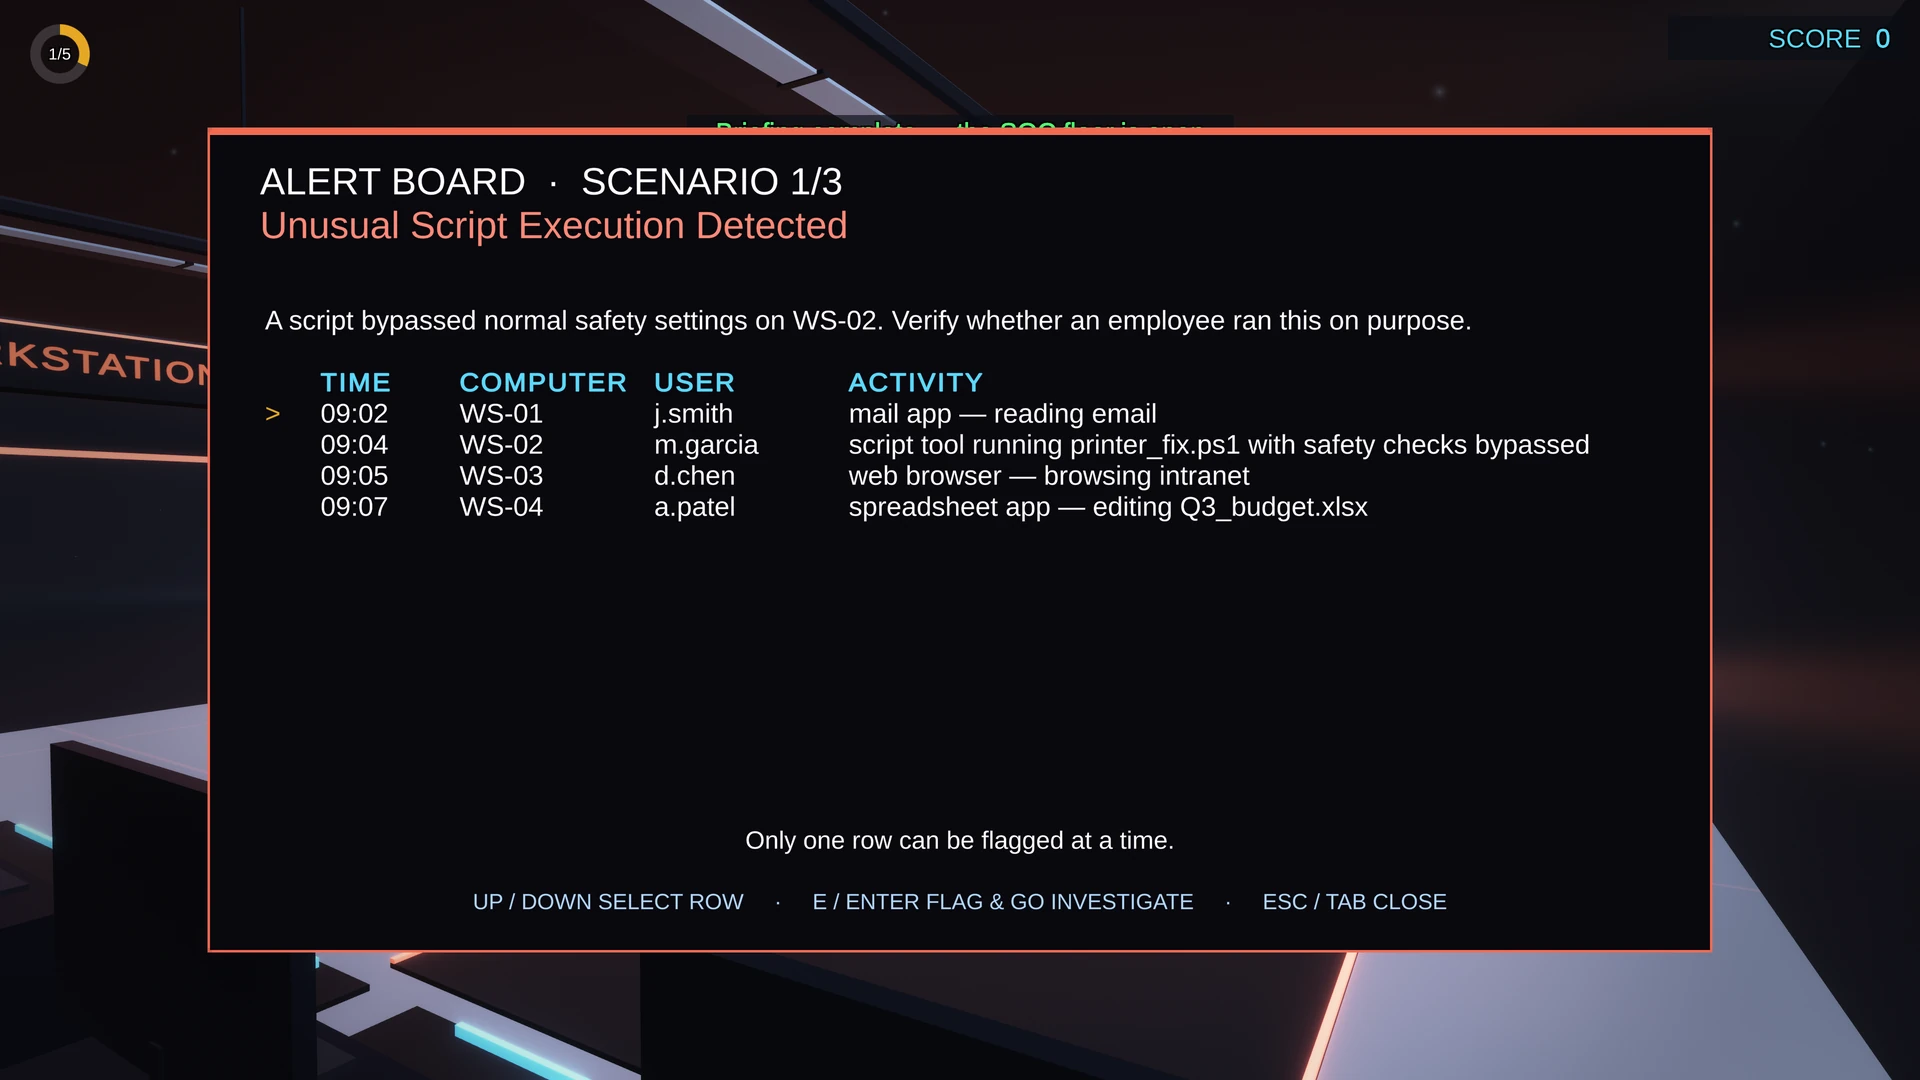
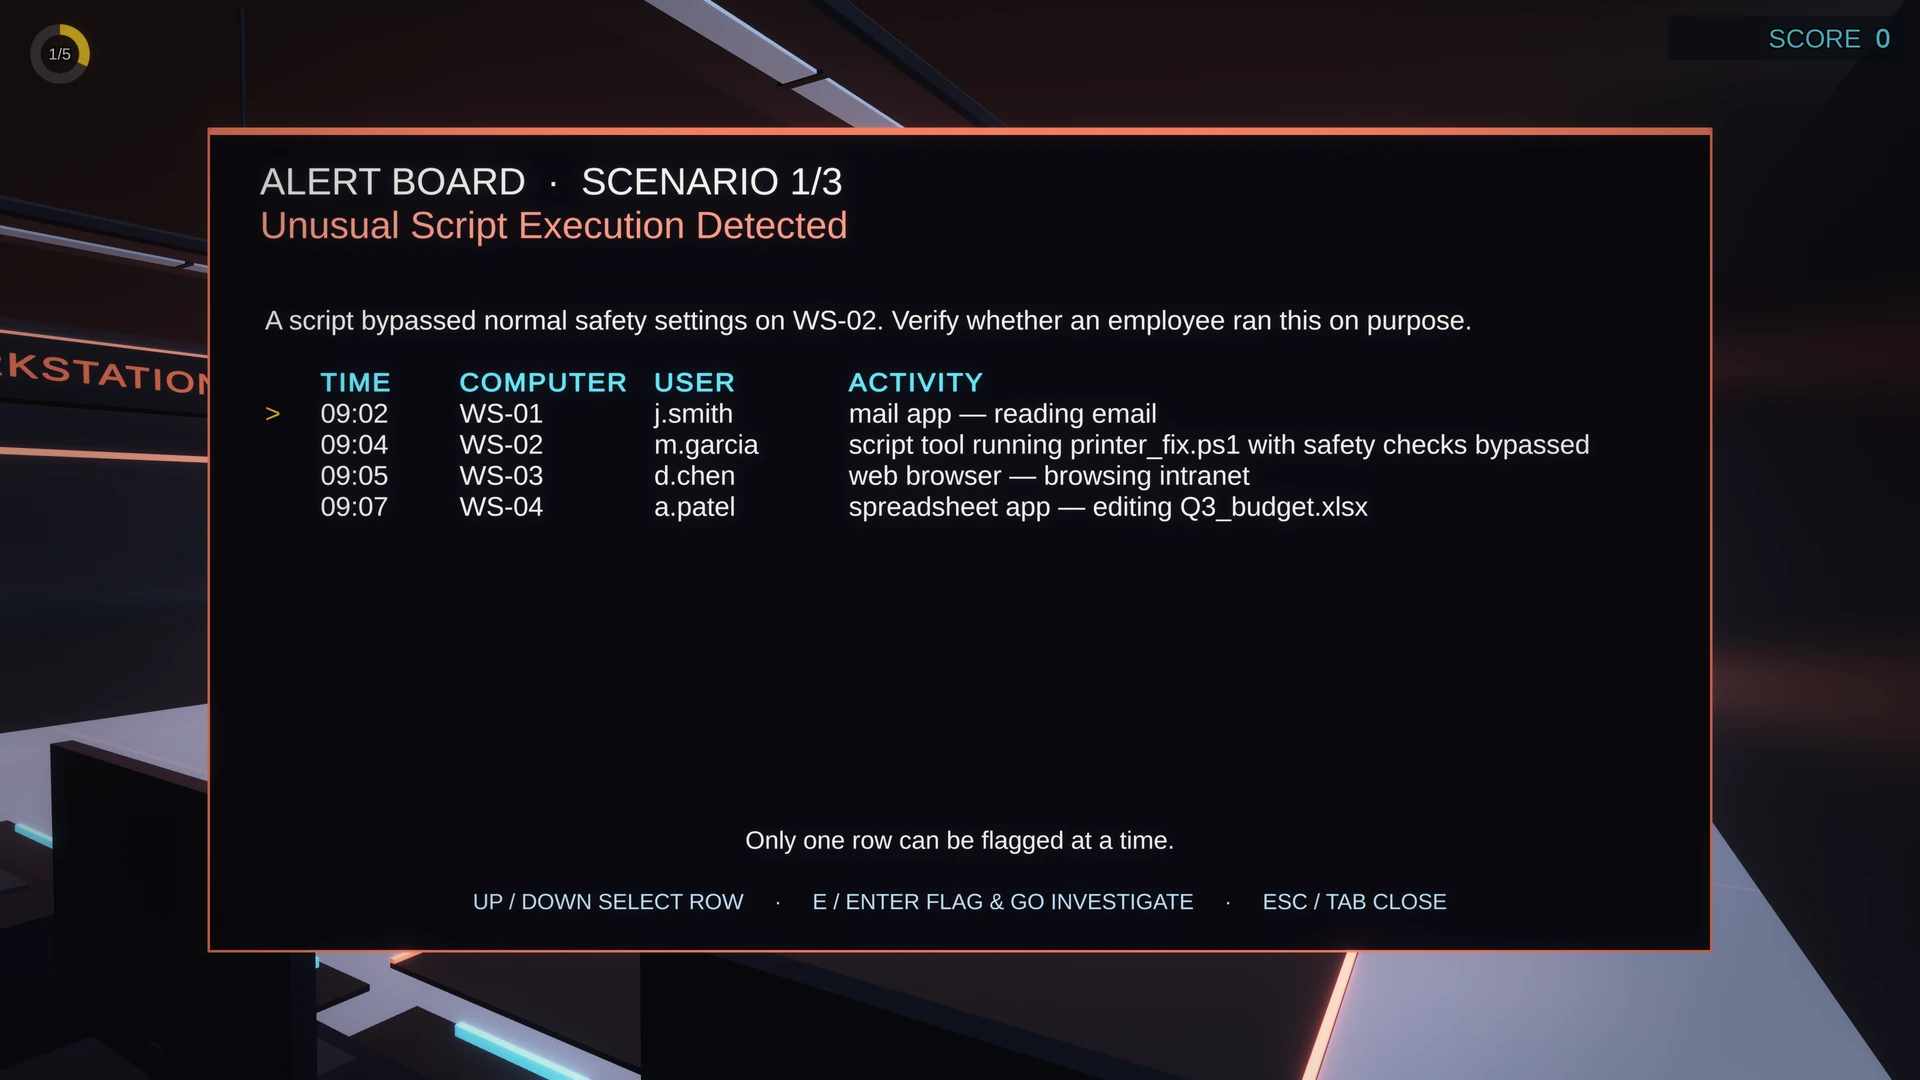
Drop the locker slide, fix the Alert Board shot, and lead Selected Projects with Benthos, Immersion, CyVerse, and Banned Book Week (#15)

diff --git a/src/data/projects.ts b/src/data/projects.ts
@@ -23,6 +23,8 @@ export type Project = {
   proofNote?: string;
   /** Short list of what I personally built. */
   myRole?: string[];
+  /** 1-based homepage Selected Projects order. Omitted projects are not featured. */
+  featured?: number;
   githubUrl?: string;
   pressUrl?: string;
   siteUrl?: string;
@@ -178,6 +180,7 @@ export const projects: Project[] = [
   },
   {
     slug: "benthos",
+    featured: 1,
     title: "Benthos",
     summary:
       "A co-op submarine underwater exploration game where players work together to uncover the secrets of Europa's ocean.",
@@ -242,6 +245,7 @@ export const projects: Project[] = [
   },
   {
     slug: "immersion-2026-featured-showcase",
+    featured: 2,
     title: "Immersion 2026 Featured Showcase",
     summary:
       "Built a mobile WebAR experience showcased to 50 attendees at Hometown Heroes, featured in SJSU Spring 2026 Magazine.",
@@ -337,6 +341,7 @@ export const projects: Project[] = [
   },
   {
     slug: "cyverse",
+    featured: 3,
     title: "CyVerse",
     summary:
       "A browser-based, first-person cybersecurity training game built with Dr. Tonia San Nicolas-Rocca at SJSU. Four playable levels, a 294-question Security+ bank, and an end-of-game certificate.",
@@ -358,7 +363,6 @@ export const projects: Project[] = [
       { path: "/images/projects/cyverse-level1-briefing.webp", alt: "Level 1 Identity and Access security briefing screen and six-step training checklist" },
       { path: "/images/projects/cyverse-level2-soc-floor.webp", alt: "Level 2 Cyber Defense SOC floor showing analyst pods WS-01 through WS-04" },
       { path: "/images/projects/cyverse-level2-alert-board.webp", alt: "Level 2 SOC Alert Board listing workstation events across WS-01 through WS-04 for investigation" },
-      { path: "/images/projects/cyverse-level2-evidence-locker.webp", alt: "Level 2 Pass-Through Evidence Locker between SOC and Digital Forensics with the seized device sealed inside" },
       { path: "/images/projects/cyverse-level3-imaging-hash.webp", alt: "Level 3 Digital Forensics imaging station after write-blocked acquisition, with matching hash values ready for analysis" },
       { path: "/images/projects/cyverse-level3-evidence-explorer.webp", alt: "Level 3 Evidence Explorer three-pane phone triage for Case 1 Spartan Gold, with text messages open to tag as evidence" },
       { path: "/images/projects/cyverse-level3-knowledge-check.webp", alt: "Level 3 knowledge check question on chain-of-custody item numbers after the phone moves from the SOC to the lab" },
@@ -452,6 +456,7 @@ export const projects: Project[] = [
   },
   {
     slug: "banned-book-week-ar",
+    featured: 4,
     title: "Banned Book Week AR",
     summary:
       "A phone scanner for Banned Books Week at SJSU King Library. Point the camera at a featured cover and a floating book plus a readable summary appear.",
